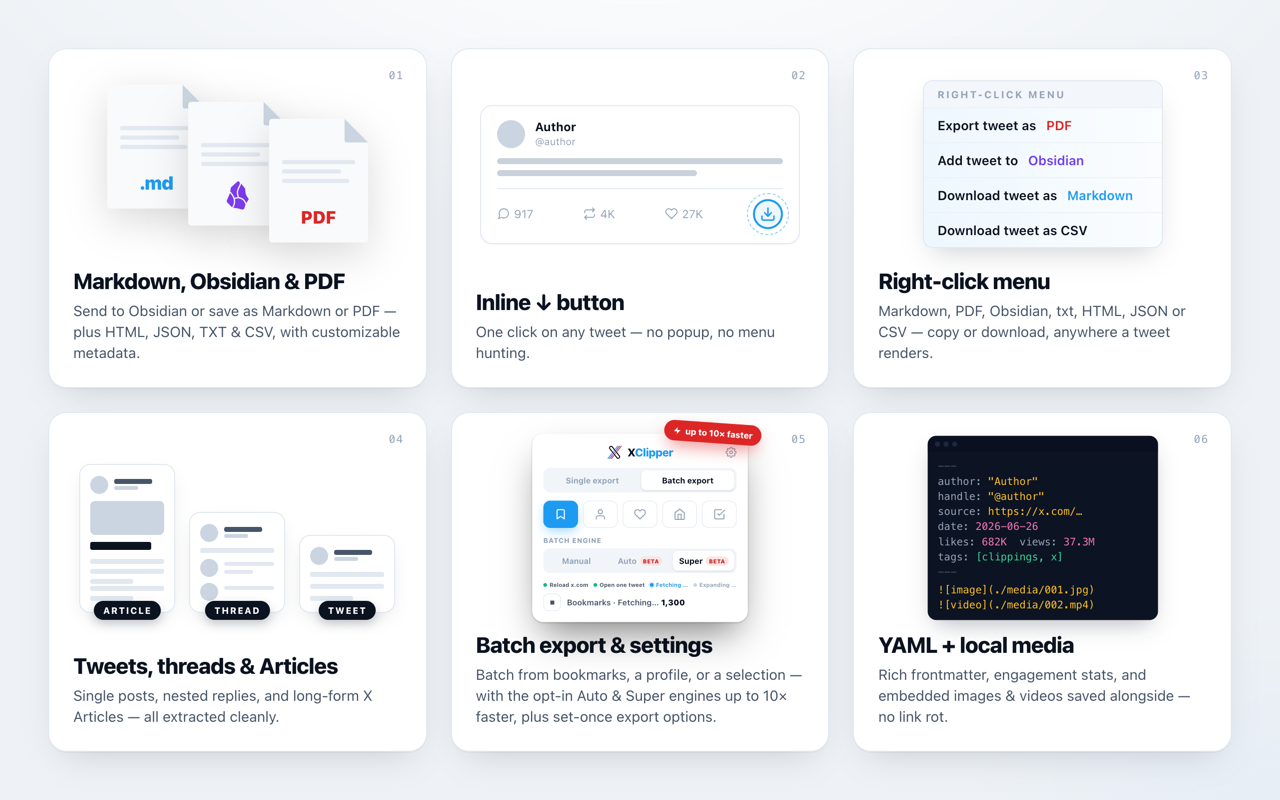
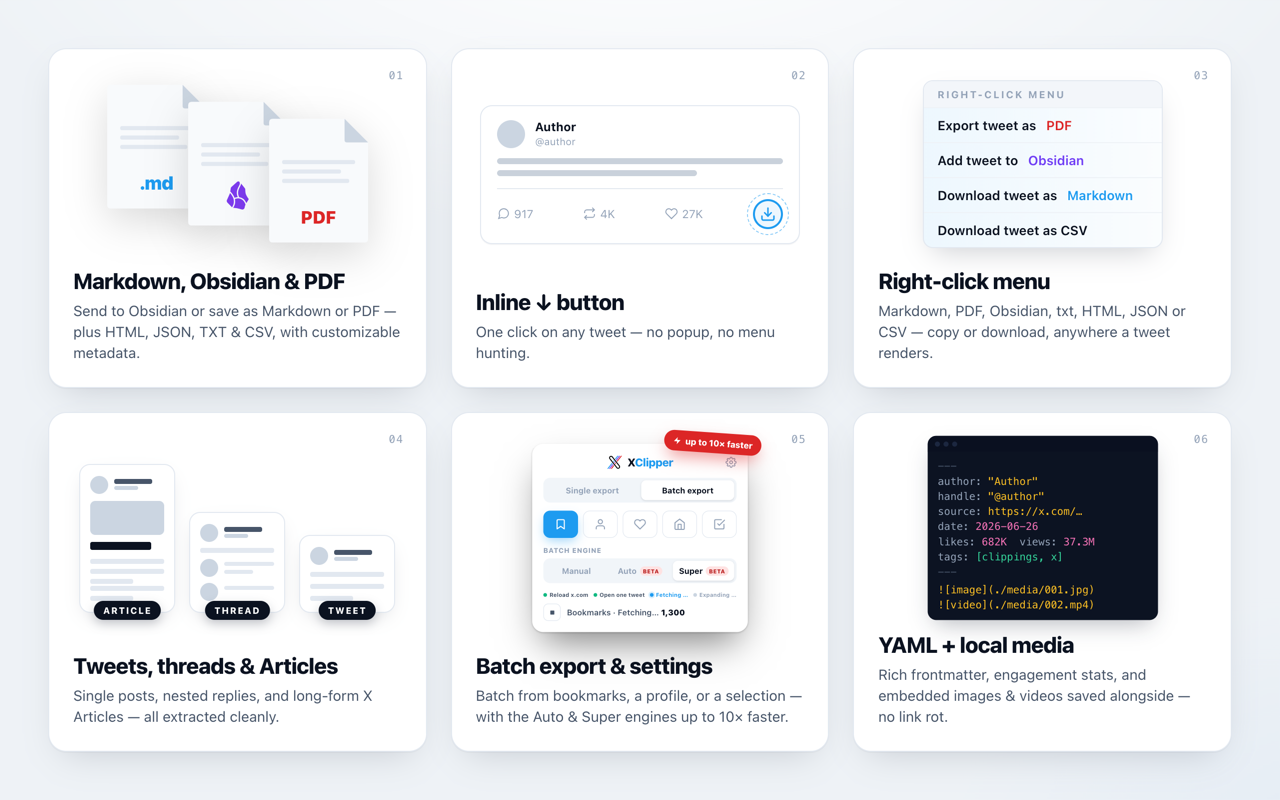
fix(mockups): tighten card 05 copy to two lines

Changed region(s): [[0.375, 0.5, 0.625, 0.9062]]

diff --git a/store/mockups/01-product-overview.html b/store/mockups/01-product-overview.html
@@ -532,7 +532,7 @@
           </div>
         </div>
         <h3>Batch export &amp; settings</h3>
-        <p>Batch from bookmarks, a profile, or a selection — with the opt-in Auto &amp; Super engines up to 10× faster, plus set-once export options.</p>
+        <p>Batch from bookmarks, a profile, or a selection — with the Auto &amp; Super engines up to 10× faster.</p>
       </div>
 
       <!-- ───────── Card 4 — YAML + images ───────── -->
